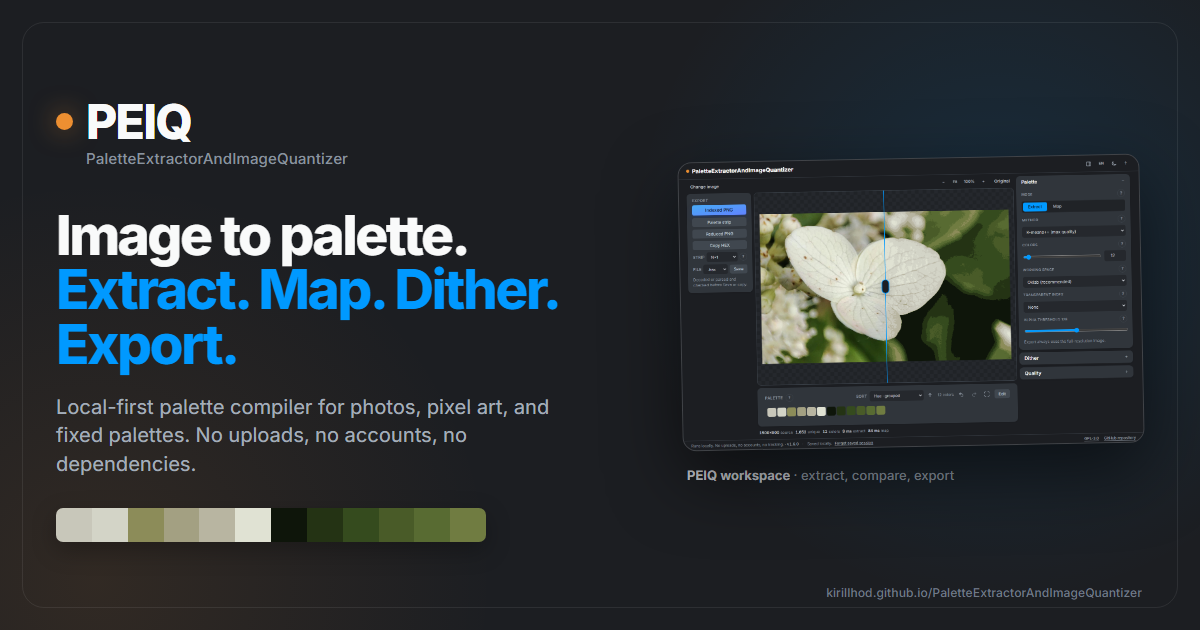
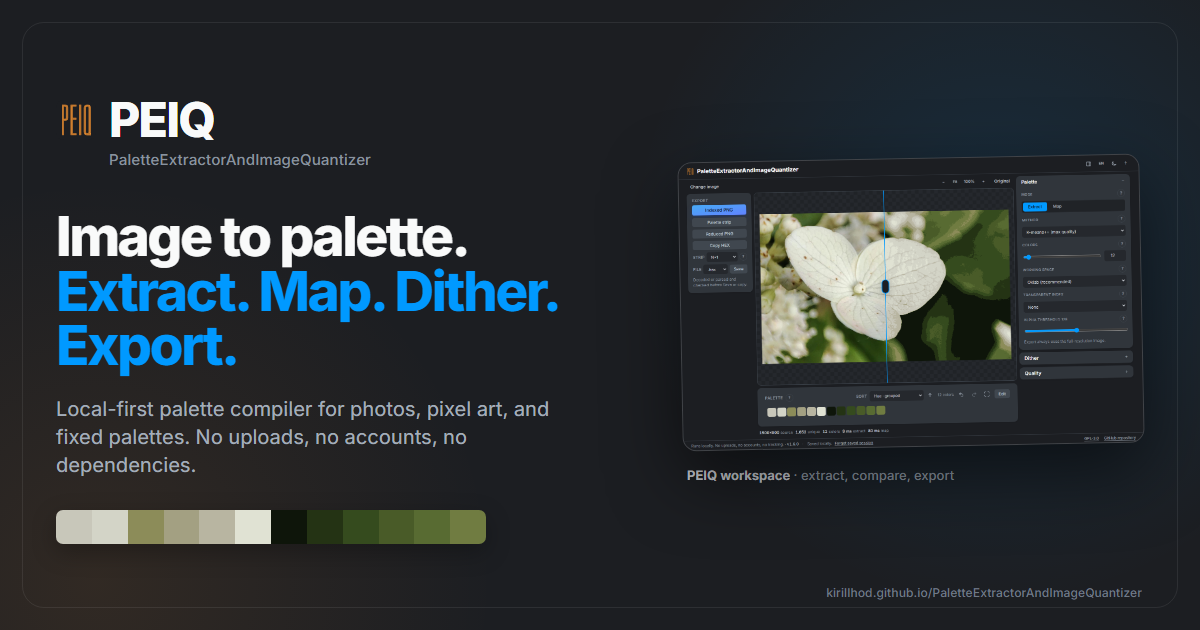
Show the PEIQ mark in the header instead of the brand dot
The dot was a placeholder from before the logo existed. The header now loads the same
favicon asset at 26 px, so the browser icon and the on-page mark are one drawing; the
fixed header height and the 360 px layout are unchanged.

README screenshots and the social card are refreshed from the current UI, so no capture
shows the old dot, and the card's palette strip is taken from the capture it displays
(K-means++, 12 colors, hue sort).

Refs: assets/PROVENANCE.md; DESIGN.md section 4; docs/spec/ui.md section 8.1

diff --git a/index.html b/index.html
@@ -69,7 +69,7 @@
 <body>
   <header class="peiq-header" id="header">
     <a class="peiq-header__brand" href="./" data-i18n-aria-label="header.homeAria" aria-label="PaletteExtractorAndImageQuantizer home">
-      <span class="peiq-header__brand-dot" aria-hidden="true"></span>
+      <img class="peiq-header__mark" src="./assets/favicon.svg" alt="" width="26" height="26">
       <span class="peiq-header__name-long">PaletteExtractorAndImageQuantizer</span>
       <span class="peiq-header__name-short" aria-hidden="true">PEIQ</span>
     </a>

diff --git a/css/layout.css b/css/layout.css
@@ -31,11 +31,11 @@
   color: var(--peiq-text-strong);
 }
 
-.peiq-header__brand-dot {
-  width: 10px;
-  height: 10px;
-  border-radius: 50%;
-  background: var(--peiq-brand);
+.peiq-header__mark {
+  display: block;
+  flex: none;
+  width: 26px;
+  height: 26px;
 }
 
 .peiq-header__name-short {

diff --git a/assets/PROVENANCE.md b/assets/PROVENANCE.md
@@ -20,8 +20,8 @@
 The delivered drawing is kept unchanged; only the root element differs, dropping the
 fixed 256 px size and adding `role="img"` and `aria-label="PEIQ"`. A 512 px render of the
 asset matches the delivered file pixel for pixel, so its outlines, 8/256 stroke, and
-mask stay exactly as supplied. The header lockup and the social card still use the
-orange brand dot.
+mask stay exactly as supplied. The same file is the browser icon, the 26 px header mark,
+and the mark on the social card.
 
 ## Screenshots
 
@@ -31,7 +31,7 @@ The workspace capture shows the palette editor open with a selected swatch, the 
 sort select with its direction button, and the full-screen preview button; the map capture
 shows the Game Boy DMG palette with Floyd–Steinberg dithering and the transparent index at
 None. Both show the footer's confirmed session clear. No third-party artwork, screenshots,
-or stock images are included. Refreshed 2026-11-16 at 1440×900 from the current UI.
+or stock images are included. Refreshed 2026-11-17 at 1440×900 from the current UI.
 
 Refresh both captures at 1440×900 in dark theme and English whenever the interface
 changes, keeping the same hydrangea composition. A stale capture is a documentation
@@ -44,7 +44,7 @@ using the self-hosted Inter font: the PEIQ mark, the product name, the page URL,
 workspace capture of the current UI (K-means++ with 12 colors and hue sort), and the
 matching palette strip. Regenerate it from the current UI whenever the interface or
 palette order changes; a stale card is a documentation defect. No third-party artwork,
-screenshots, or stock images are included. Refreshed 2026-11-16.
+screenshots, or stock images are included. Refreshed 2026-11-17.
 
 ## Blue noise
 

diff --git a/docs/spec/ui.md b/docs/spec/ui.md
@@ -74,9 +74,9 @@ On mobile the order is toolbar, export, canvas, palette, hint, settings.
   redraws the map and markers, so a settings or palette change never silently turns the
   overlay off. Loading another image clears it.
   Contrast matrices are out of v1.1.
-- The header shows the full public name at ≥980 px; below that, the short mark `PEIQ`
-  with an `aria-label`/`title` carrying the full name. The document title uses the full
-  name.
+- The header leads with the PEIQ mark, then the full public name at ≥980 px; below that,
+  the short name `PEIQ` with an `aria-label`/`title` carrying the full name. The document
+  title uses the full name.
 - The `Help` and theme buttons are always visible, including the empty state.
 - Visual language, tokens, component styles, motion, and breakpoints: see
   [`DESIGN.md`](../../DESIGN.md).

diff --git a/DESIGN.md b/DESIGN.md
@@ -992,11 +992,11 @@ column, handing its width to the stage.
   text-decoration: none;
   white-space: nowrap;
 }
-.peiq-header__brand-dot {
-  width: 10px;
-  height: 10px;
-  border-radius: 50%;
-  background: var(--peiq-brand);
+.peiq-header__mark {
+  display: block;
+  flex: none;
+  width: 26px;
+  height: 26px;
 }
 .peiq-header__actions {
   display: flex;
